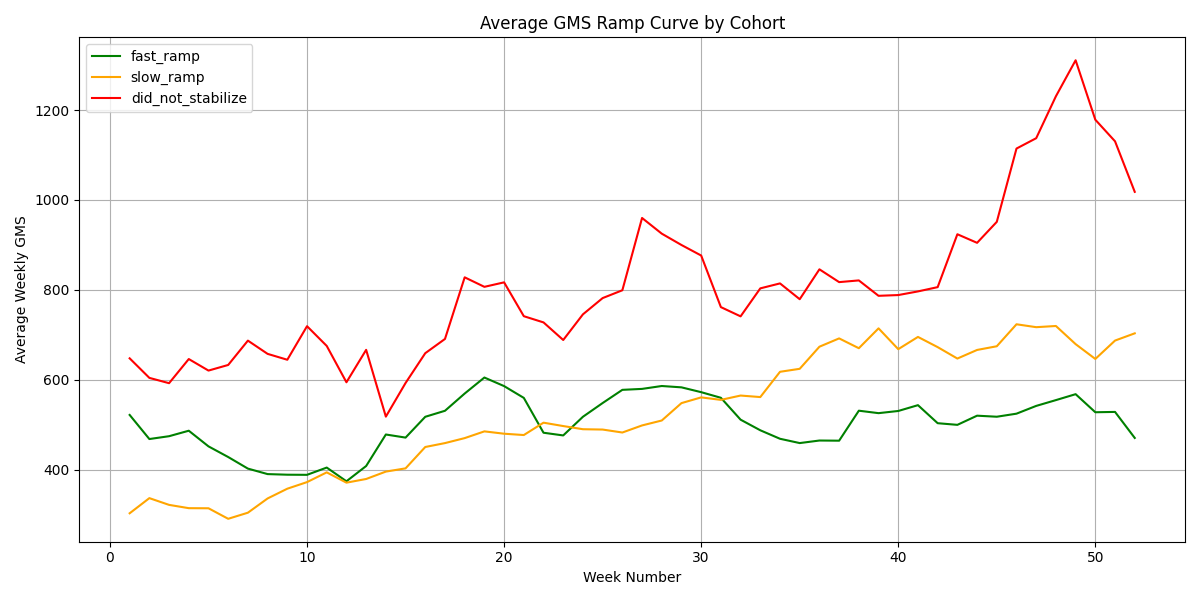
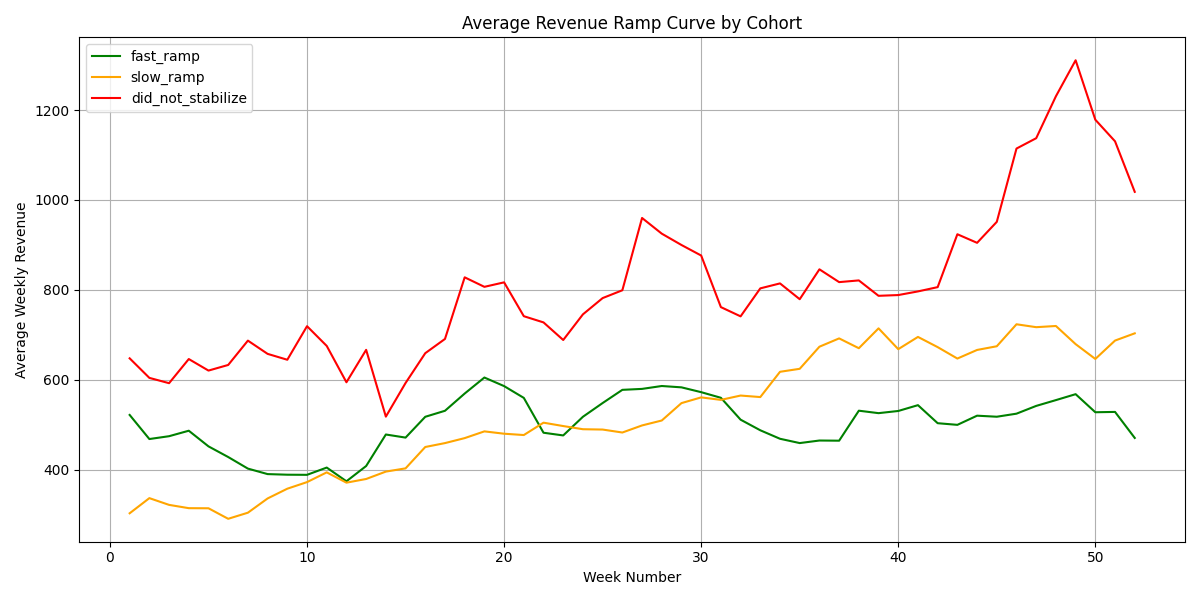
Replace GMS with revenue throughout

Changed region(s): [[0.37, 0.03, 0.6783, 0.06], [0.0, 0.33, 0.0308, 0.63]]

diff --git a/visualize.py b/visualize.py
@@ -99,8 +99,8 @@ for cohort, color in zip(cohorts, colors):
     plt.plot(cohort_data["week_number"], cohort_data["weekly_gms_smoothed"], label=cohort, color=color)
 
 plt.xlabel("Week Number")
-plt.ylabel("Average Weekly GMS")
-plt.title("Average GMS Ramp Curve by Cohort")
+plt.ylabel("Average Weekly Revenue")
+plt.title("Average Revenue Ramp Curve by Cohort")
 plt.legend()
 plt.grid(True)
 plt.tight_layout()

diff --git a/README.md b/README.md
@@ -32,10 +32,10 @@ The Olist data is divided into 8 datasets and this project uses 3:
 **`queries.sql`** — three SQL queries that build toward the final analysis:
 
 - *Query 1* establishes a baseline — each seller's first sale, last sale, and total orders using `MIN`, `MAX`, and `COUNT` joined across the orders and order items tables.
-- *Query 2* calculates weekly GMS per seller indexed to their launch date. Days elapsed since first order are divided by 7 and floored to produce a relative week number. Price and freight value are summed per seller per week.
+- *Query 2* calculates weekly revenue per seller indexed to their launch date. Days elapsed since first order are divided by 7 and floored to produce a relative week number. Price and freight value are summed per seller per week.
 - *Query 3* is the core analysis, built as a chain of four CTEs. `weekly` replicates the Query 2 logic. `wow` adds week-over-week percent change using the `LAG()` window function partitioned by seller. `steady` uses `LEAD()` to identify the first two consecutive weeks where absolute WoW change is below 10% and week numbers are exactly one apart. `cohorts` applies a `CASE` statement to label each seller as `fast_ramp` (steady state by week 16), `slow_ramp` (weeks 17–52), or `did_not_stabilize`.
 
-**`visualize.py`** — connects to Postgres, pulls the Query 3 result into a pandas DataFrame, filters to sellers who joined before July 2017 and average at least $200 in weekly GMS, groups by cohort and week number, applies a 4-week rolling average to smooth volatility, and plots three ramp curves — one per cohort.
+**`visualize.py`** — connects to Postgres, pulls the Query 3 result into a pandas DataFrame, filters to sellers who joined before July 2017 and average at least $200 in weekly revenue, groups by cohort and week number, applies a 4-week rolling average to smooth volatility, and plots three ramp curves — one per cohort.
 
 ---
 
@@ -43,7 +43,7 @@ The Olist data is divided into 8 datasets and this project uses 3:
 
 The average time for a new Olist Seller to reach a steady state of sales was **29.8 weeks**.
 
-Contrary to what the tortoise and the hare might suggest, slow ramp Sellers ultimately outperformed fast ramp Sellers in long-term GMS. Fast ramp Sellers plateaued early at a lower revenue ceiling while slow ramp Sellers continued growing. The did not stabilize cohort generated the highest GMS but with the most volatility — these appear to be high-volume Sellers whose sales are driven by seasonality or promotions rather than consistent demand.
+Contrary to what the tortoise and the hare might suggest, slow ramp Sellers ultimately outperformed fast ramp Sellers in long-term revenue. Fast ramp Sellers plateaued early at a lower revenue ceiling while slow ramp Sellers continued growing. The did not stabilize cohort generated the highest revenue but with the most volatility — these appear to be high-volume Sellers whose sales are driven by seasonality or promotions rather than consistent demand.
 
 Compared to my experience with new vendor ramp at Amazon, 29.8 weeks aligns directionally with what I observed — which makes sense given this analysis focuses on serious, high-volume sellers rather than the full Olist seller population.
 
